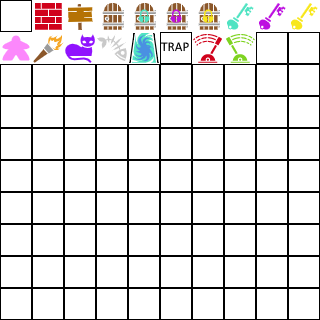
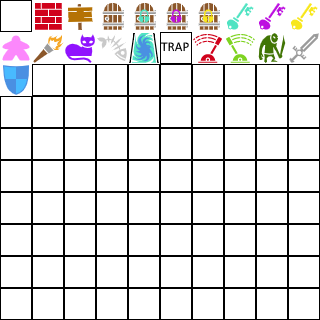
so far

Changed region(s): [[0.7812, 0.0938, 1.0, 0.2188], [0.0, 0.1875, 0.0938, 0.3125], [0.9688, 0.1875, 1.0, 0.2188]]

diff --git a/public/scripts/plotter.js b/public/scripts/plotter.js
@@ -4,15 +4,18 @@ const ROOM_OFFSET_X = 0;
 const ROOM_OFFSET_Y = 0;
 const ROOM_COLUMNS = 20;
 const ROOM_ROWS = 20;
+
 const ZOOM_OFFSET_X = ROOM_OFFSET_X + ROOM_COLUMNS * ROOM_COLUMN_WIDTH;
 const ZOOM_OFFSET_Y = ROOM_OFFSET_Y;
 const ZOOM_WIDTH = 320;
 const ZOOM_HEIGHT = 320;
+
 const SIGNTEXT_OFFSET_X = 20;
 const SIGNTEXT_OFFSET_Y = 60;
 const SIGNTEXT_WIDTH = 240;
 const SIGNTEXT_HEIGHT = 140;
 const SIGNTEXT_SIZE = 24;
+
 const INVENTORY_COLUMN_WIDTH = 32;
 const INVENTORY_ROW_HEIGHT = 32;
 const INVENTORY_PANEL_X = ZOOM_OFFSET_X;
@@ -21,7 +24,14 @@ const INVENTORY_OFFSET_X = INVENTORY_PANEL_X + INVENTORY_COLUMN_WIDTH/2;
 const INVENTORY_OFFSET_Y = INVENTORY_PANEL_Y + INVENTORY_ROW_HEIGHT/2;
 const INVENTORY_COLUMNS = 9;
 const INVENTORY_ROWS = 4;
+const INVENTORY_PANEL_HEIGHT = INVENTORY_ROWS * INVENTORY_ROW_HEIGHT + INVENTORY_ROW_HEIGHT;
 const INVENTORYTEXT_SIZE = 12;
+
+const HEALTH_PANEL_X = INVENTORY_PANEL_X;
+const HEALTH_PANEL_Y = INVENTORY_PANEL_Y + INVENTORY_PANEL_HEIGHT;
+const HEALTH_PANEL_COLUMN_WIDTH = 32;
+const HEALTH_PANEL_COLUMNS = 10;
+const HEALTH_PANEL_HEIGHT = 32;
 class Plotter{
     static plotRoomX(column,row){
         return column * ROOM_COLUMN_WIDTH + ROOM_OFFSET_X;
@@ -35,5 +45,11 @@ class Plotter{
     }
     static plotInventoryY(index){
         return (Math.floor(index / INVENTORY_COLUMNS)) * INVENTORY_ROW_HEIGHT + INVENTORY_OFFSET_Y;
+    }
+    static plotHealthX(index){
+        return HEALTH_PANEL_X + index * HEALTH_PANEL_COLUMN_WIDTH;
+    }
+    static plotHealthY(index){
+        return HEALTH_PANEL_Y;
     }
 }

diff --git a/public/scripts/game.js b/public/scripts/game.js
@@ -141,10 +141,20 @@ class Game{
             text(String(Avatar.getInventory(cell)),x,y,INVENTORY_COLUMN_WIDTH, INVENTORY_ROW_HEIGHT);
         }
     }
+    static drawHealth(){
+        for(let index=0;index<AVATAR_MAXIMUM_HEALTH;++index){
+            let sprite = SPRITE_HEART_EMPTY;
+            if(index<Avatar.health){
+                sprite = SPRITE_HEART_FULL;
+            }
+            Sprites.render(sprite, Plotter.plotHealthX(index), Plotter.plotHealthY(index));
+        }
+    }
     static draw(){
         background(BACKGROUND_COLOR);
         Game.drawMap();
         Game.drawZoom();
         Game.drawInventory();
+        Game.drawHealth();
     }
 }

diff --git a/public/scripts/avatar.js b/public/scripts/avatar.js
@@ -84,5 +84,11 @@ class Avatar{
         }
         return result;
     }
+    static get health(){
+        return avatar.health;
+    }
+    static set health(value){
+        avatar.health = value;
+    }
     
 }

diff --git a/TODO.md b/TODO.md
@@ -2,3 +2,4 @@
 [ ] Monsters
 [ ] Shields
 [ ] Swords
+[ ] Avatar loading from JSON
